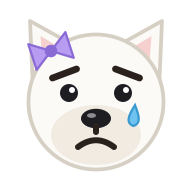
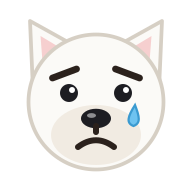
Kira i Ais sense llacets
Claude-Session: https://claude.ai/code/session_01MvRGuFYQBrCT9EJXR5RuqU

Changed region(s): [[0.125, 0.1562, 0.4062, 0.375]]

diff --git a/public/sw.js b/public/sw.js
@@ -4,7 +4,7 @@
 //  3. En tocar un avís, obre l'app directament al Repàs diari.
 // Les dades d'estudi són a IndexedDB; aquí només es llegeixen per decidir l'avís.
 
-const CACHE = 'estudi-app-v13'
+const CACHE = 'estudi-app-v14'
 const LATE_AFTER_MIN = 120
 // Mascota de cada dia, de dilluns a diumenge (còpia de src/data/mascots.ts).
 const MASCOTS = [
